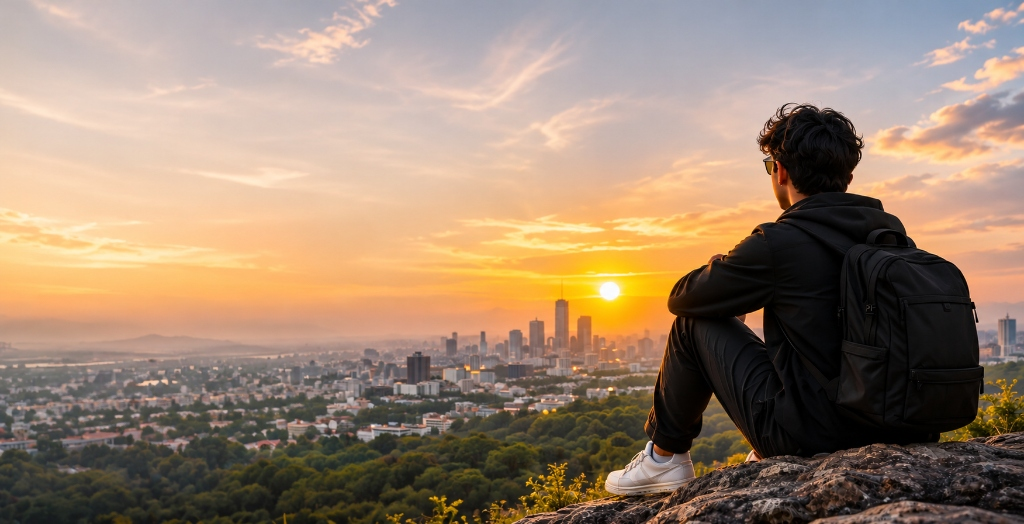
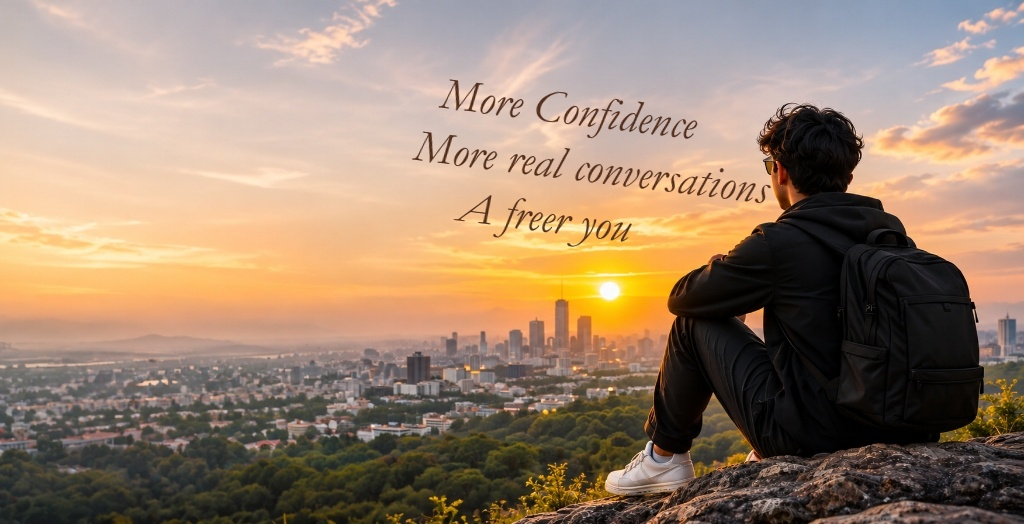
fix: integrate decorative script text inside hero image composition

Changed region(s): [[0.4062, 0.2443, 0.75, 0.3969], [0.4375, 0.1527, 0.6875, 0.2748], [0.4375, 0.3664, 0.625, 0.458]]

diff --git a/src/landing.css b/src/landing.css
@@ -317,22 +317,6 @@
   border: 1px solid var(--border-light);
 }
 
-.mentico-hero-decorative-text {
-  position: absolute;
-  top: -15px;
-  left: -20px;
-  font-family: var(--font-decorative);
-  font-weight: 500;
-  font-style: italic;
-  font-size: 26px;
-  line-height: 1.25;
-  color: var(--color-decorative);
-  transform: rotate(-6deg);
-  pointer-events: none;
-  text-shadow: 0 2px 10px rgba(250, 246, 240, 0.8);
-  z-index: 2;
-}
-
 /* Feature Highlights Bar */
 .mentico-features-bar {
   margin-top: 24px;
@@ -1416,11 +1400,6 @@
     justify-content: center;
   }
 
-  .mentico-hero-decorative-text {
-    left: 10%;
-    top: -20px;
-  }
-
   .mentico-learn-grid {
     grid-template-columns: repeat(4, 1fr);
   }
@@ -1528,12 +1507,6 @@
     padding: 0 28px;
     width: 100%;
     max-width: 350px;
-  }
-
-  .mentico-hero-decorative-text {
-    font-size: 20px;
-    left: 4px;
-    top: -15px;
   }
 
   /* Feature bar */

diff --git a/src/pages/Home.jsx b/src/pages/Home.jsx
@@ -330,17 +330,9 @@ export default function Home() {
             </div>
 
             <div className="mentico-hero-media-wrapper">
-              <div className="mentico-hero-decorative-text">
-                More Confidence
-                <br />
-                More real conversations
-                <br />
-                A freer you
-              </div>
-
               <img
                 src="/images/hero_person_cliff.jpg"
-                alt="Man sitting freely on a cliff overlooking sunset and city"
+                alt="Man sitting freely on a cliff overlooking sunset and city - More Confidence, More real conversations, A freer you"
                 className="mentico-hero-image"
                 loading="eager"
               />
